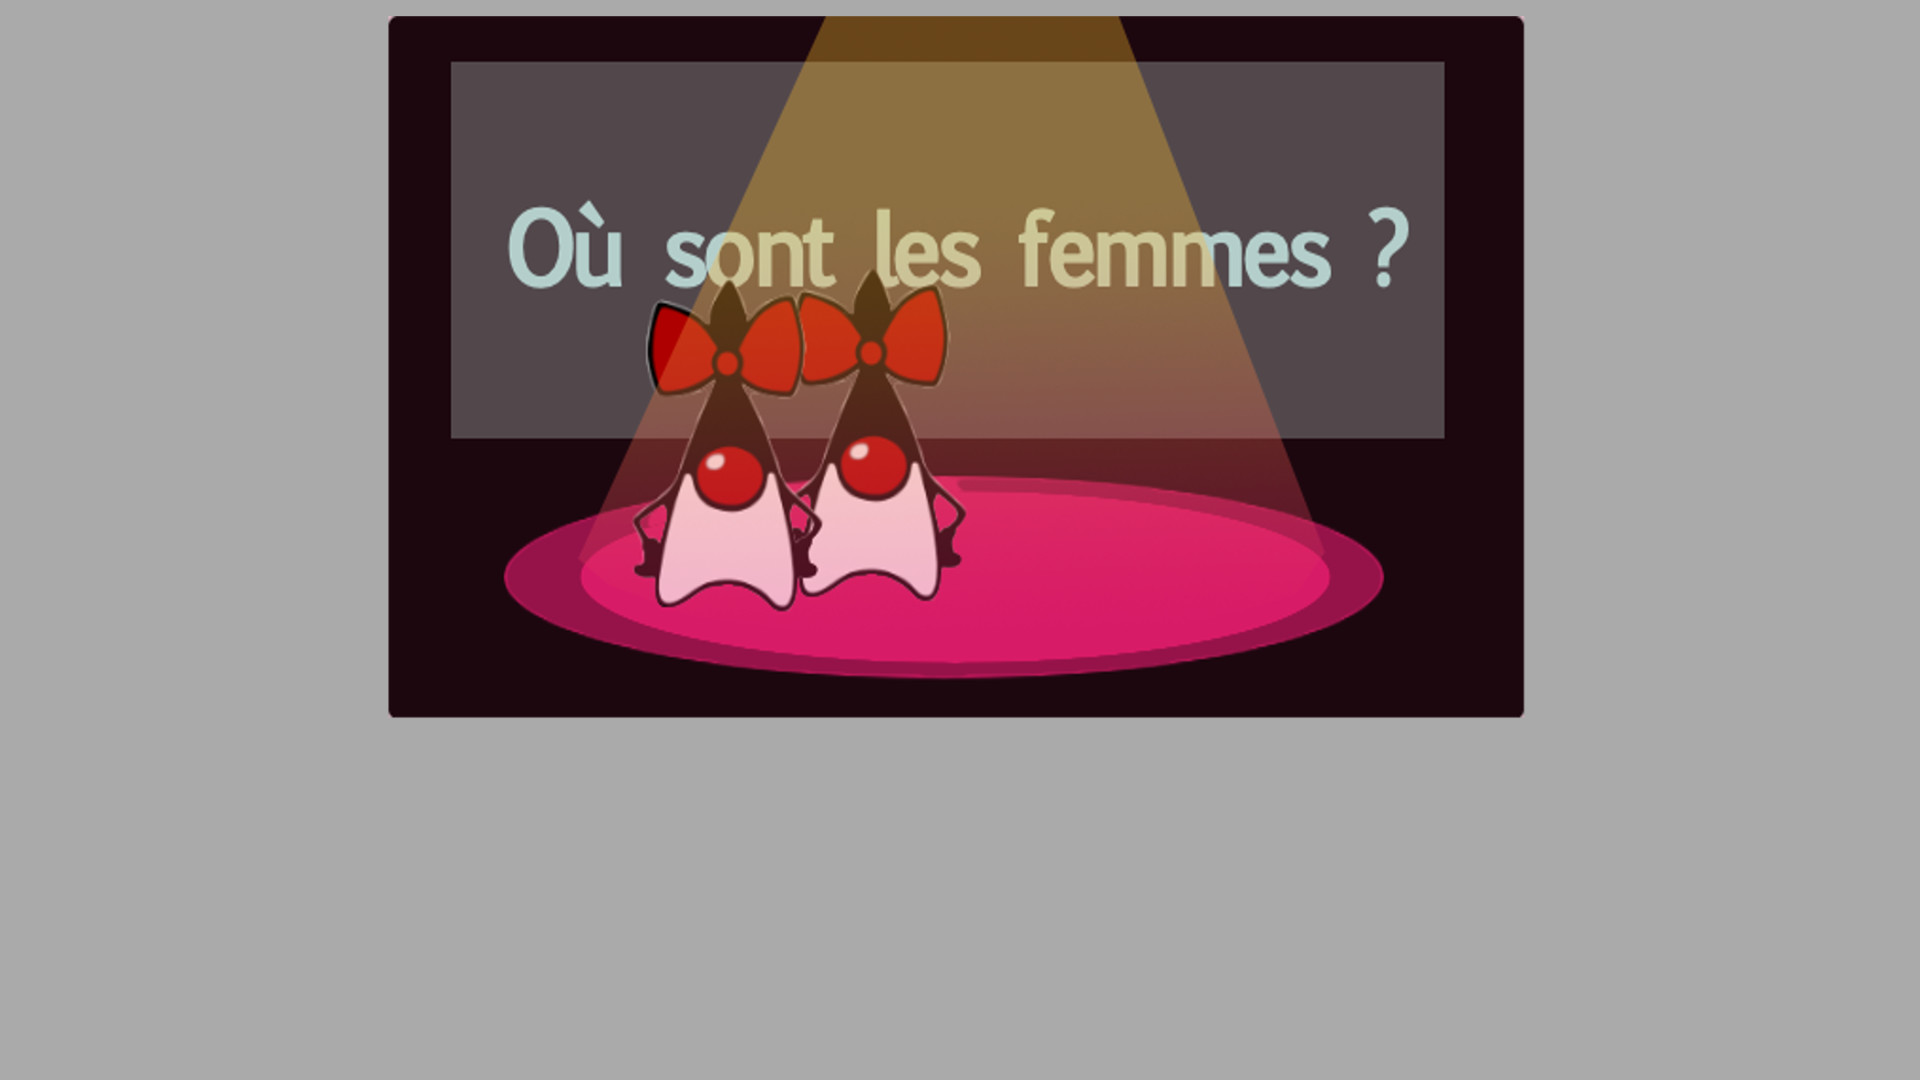
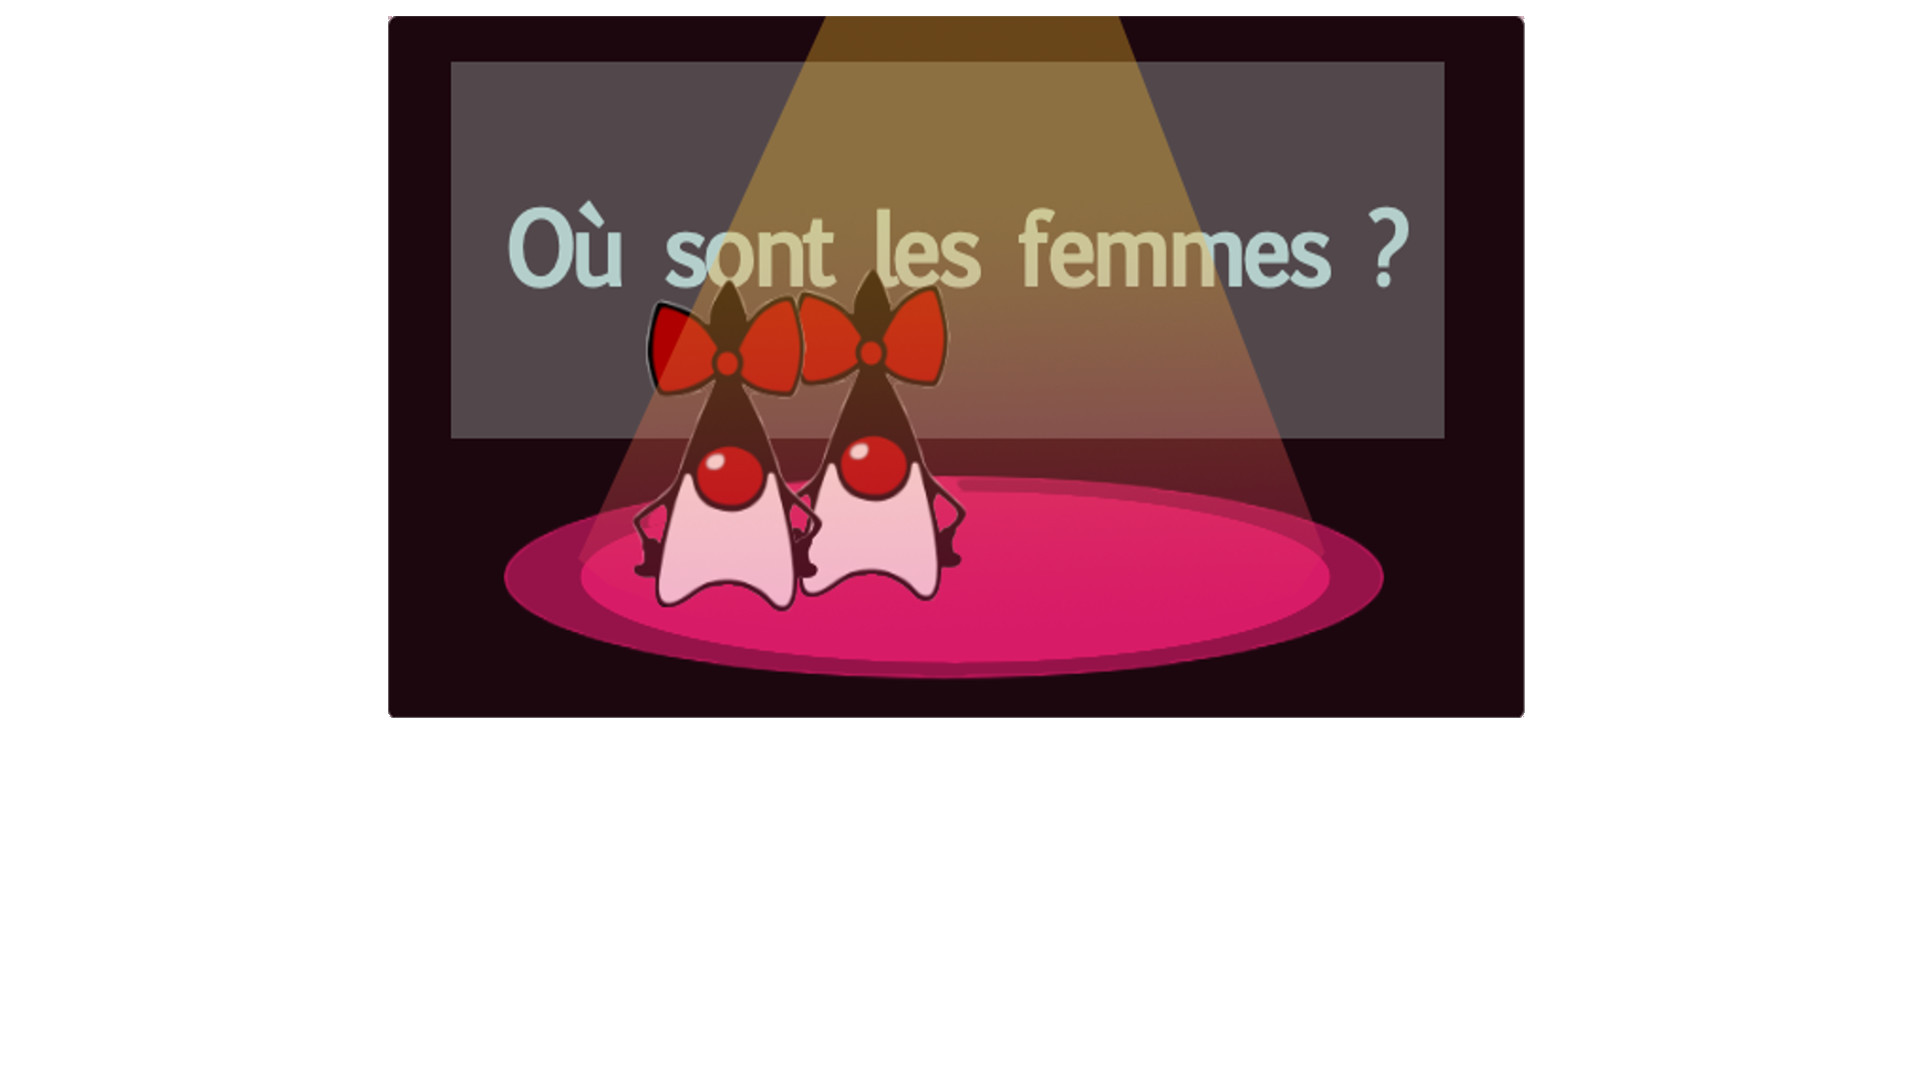
Modification de la CSS : fond blanc, stop de centrer le texte

diff --git a/asciidoctor-revealjs.css b/asciidoctor-revealjs.css
@@ -11,7 +11,8 @@ section.has-dark-background, section.has-dark-background h1, section.has-dark-ba
  * GLOBAL STYLES
  *********************************************/
 body {
-
+ background: #ffffff;
+ color: #000000;
 }
 
 /* html,#container{
@@ -52,15 +53,16 @@ body {
 .reveal h4,
 .reveal h5,
 .reveal h6 {
-  margin: 0 0 20px 0;
+  margin: 0 0 1em 0;
   color: #8f0708;
-  font-family: "Zantroke", Helvetica, sans-serif;
   font-weight: 600;
   line-height: 1.2;
   letter-spacing: normal;
   text-transform: uppercase;
   text-shadow: none;
-  word-wrap: break-word; }
+  word-wrap: break-word; 
+  text-align: center;
+}
 
 
 
@@ -96,9 +98,26 @@ body {
 /*********************************************
  * OTHER
  *********************************************/
+
+.reveal .slides{
+  text-align: left;
+  font-family: "Zantroke", Helvetica, sans-serif;
+}
+
+.reveal .slides img{
+  text-align: center;
+  margin: auto;
+}
 .reveal p {
   margin: 20px 0;
-  line-height: 1.3; }
+  line-height: 1.3; 
+}
+
+.reveal .slides p a{
+  margin-left: 1ex; 
+  font-size: 90%;
+}
+
 
 /* Ensure certain elements are never larger than the slide itself */
 .reveal img,
